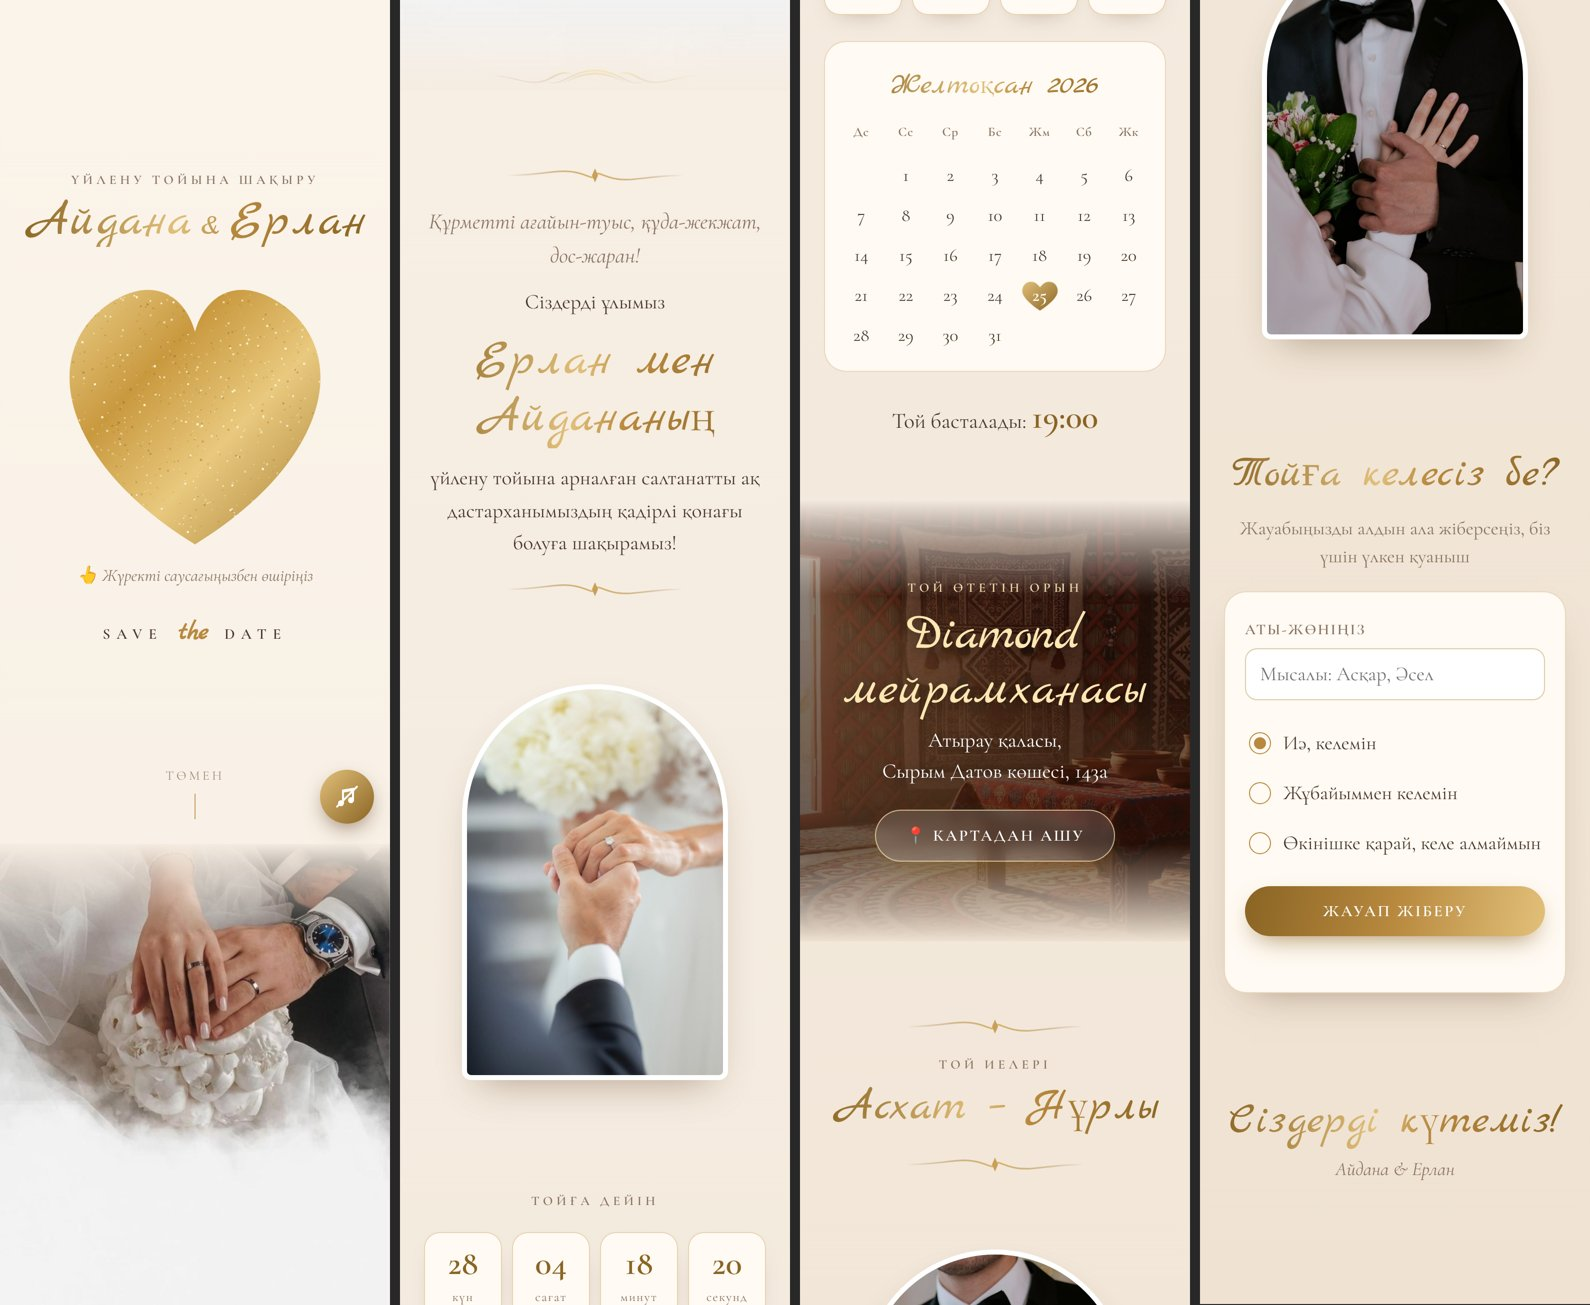
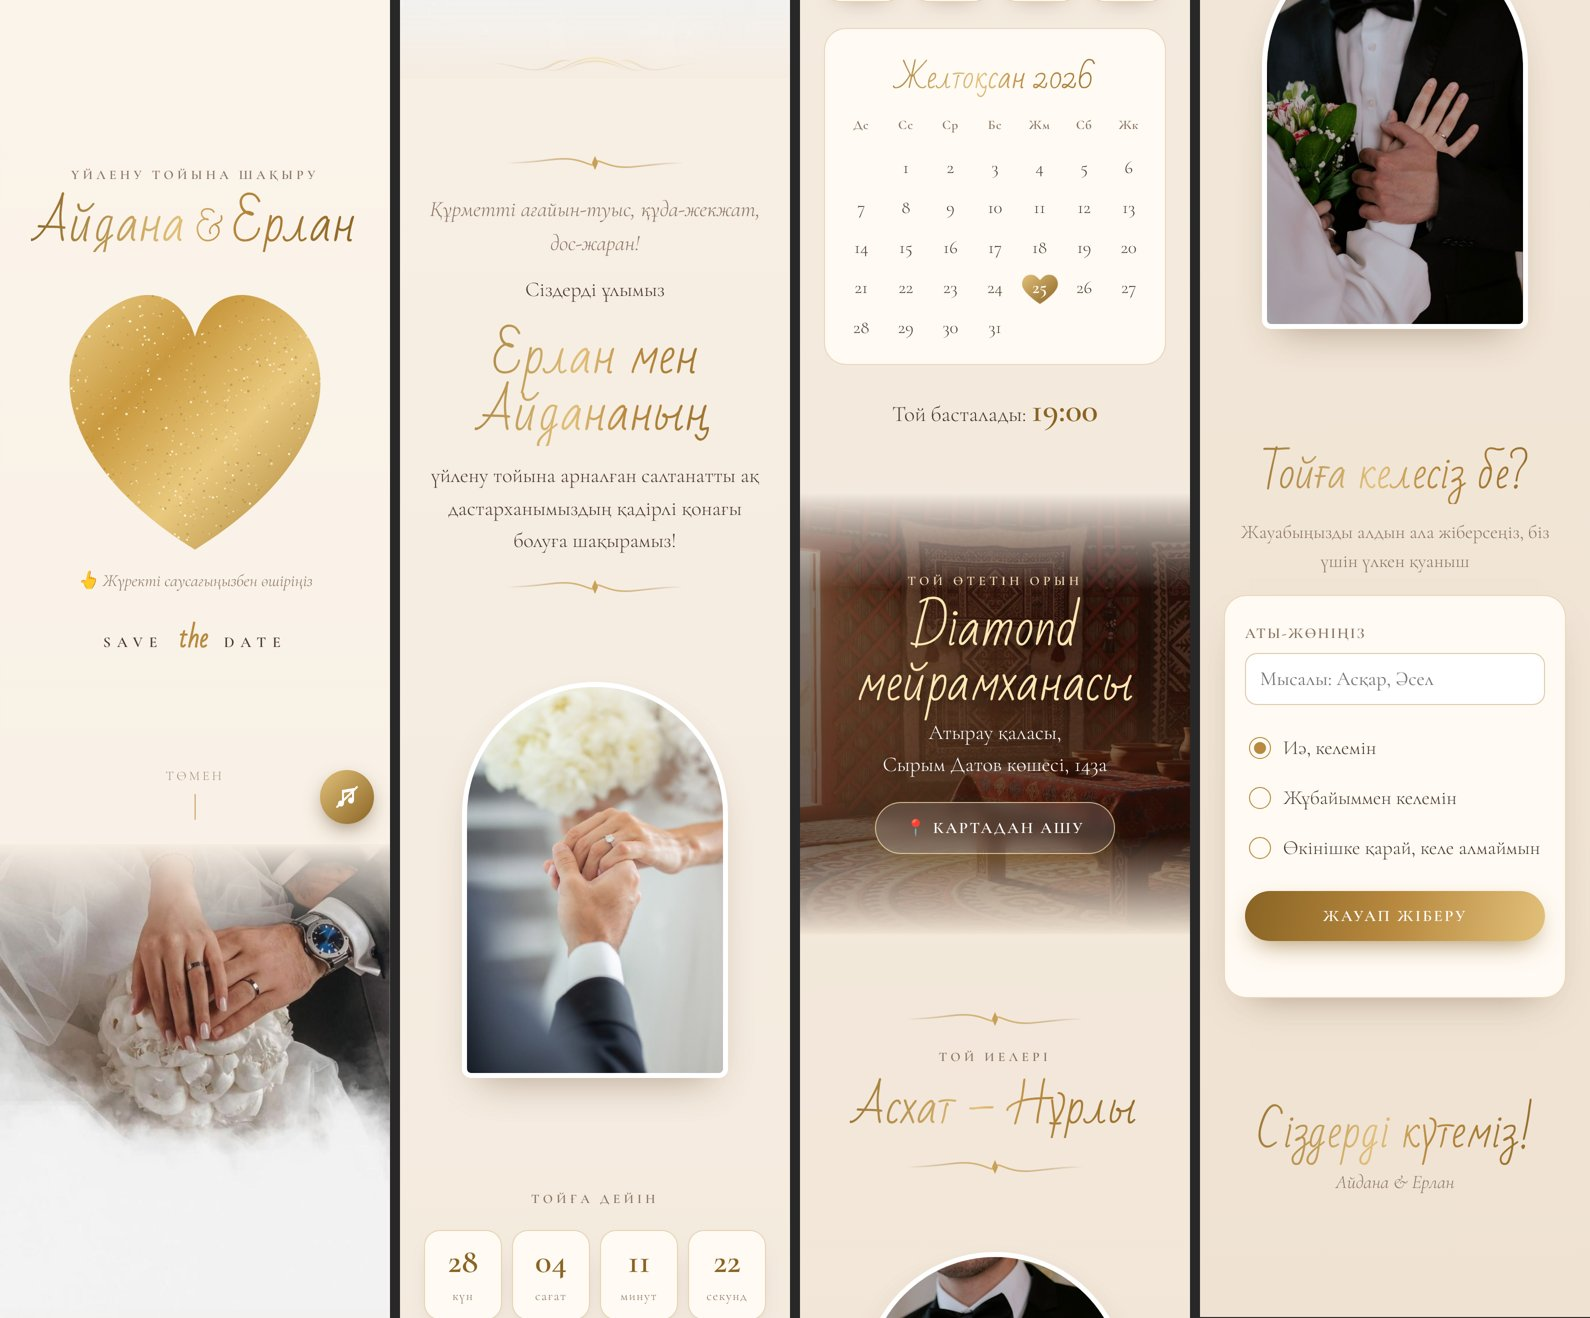
Шақыру сайты: нәзік шрифт
Claude-Session: https://claude.ai/code/session_01DyLs1DAXA4NQtEnuect5En

diff --git a/Сайттар/aidana-erlan/index.html b/Сайттар/aidana-erlan/index.html
@@ -11,7 +11,7 @@
 <meta name="theme-color" content="#f3e9dc">
 <link rel="preconnect" href="https://fonts.googleapis.com">
 <link rel="preconnect" href="https://fonts.gstatic.com" crossorigin>
-<link href="https://fonts.googleapis.com/css2?family=Cormorant+Garamond:ital,wght@0,400;0,500;0,600;1,400&family=Marck+Script&display=swap" rel="stylesheet">
+<link href="https://fonts.googleapis.com/css2?family=Cormorant+Garamond:ital,wght@0,300;0,400;0,500;0,600;1,300;1,400&family=Bad+Script&display=swap" rel="stylesheet">
 <style>
 :root{
   --bg:#f5ece1; --bg2:#efe2d2; --ink:#4a3a2e; --soft:#8a7462;
@@ -19,12 +19,12 @@
 }
 *{box-sizing:border-box;margin:0;padding:0}
 
-body{background:var(--bg);color:var(--ink);font-family:"Cormorant Garamond",Georgia,serif;font-size:19px;line-height:1.5;overflow-x:hidden;-webkit-font-smoothing:antialiased}
+body{background:var(--bg);color:var(--ink);font-family:"Cormorant Garamond",Georgia,serif;font-weight:300;font-size:20px;line-height:1.5;overflow-x:hidden;-webkit-font-smoothing:antialiased}
 .wrap{max-width:480px;margin:0 auto;position:relative;background:linear-gradient(180deg,#fbf4ea 0%,var(--bg) 40%,var(--bg2) 100%);overflow:hidden}
-.script{font-family:"Marck Script","Cormorant Garamond",cursive;font-weight:400}
-.gold{background:linear-gradient(100deg,var(--gold3),var(--gold2) 45%,var(--gold) 60%,var(--gold3));-webkit-background-clip:text;background-clip:text;color:transparent}
+.script{font-family:"Bad Script","Cormorant Garamond",cursive;font-weight:400}
+.gold{padding:.14em .06em .06em;background:linear-gradient(100deg,var(--gold3),var(--gold2) 45%,var(--gold) 60%,var(--gold3));-webkit-background-clip:text;background-clip:text;color:transparent}
 section{position:relative;padding:56px 24px;text-align:center}
-h2{font-family:"Marck Script",cursive;font-weight:400;font-size:44px;line-height:1.1;margin-bottom:14px}
+h2{font-family:"Bad Script",cursive;font-weight:400;font-size:42px;line-height:1.3;margin-bottom:14px}
 .cap{letter-spacing:.28em;text-transform:uppercase;font-size:13px;font-weight:600;color:var(--soft)}
 .divider{display:block;width:180px;height:22px;margin:18px auto}
 .reveal{opacity:0;transform:translateY(26px);transition:opacity 1s ease,transform 1s ease}
@@ -46,7 +46,7 @@ h2{font-family:"Marck Script",cursive;font-weight:400;font-size:44px;line-height
 .hint b{display:inline-block;animation:tap 1.6s infinite}
 @keyframes tap{0%,100%{transform:translateY(0)}50%{transform:translateY(-5px)}}
 .savedate{margin-top:26px;font-size:15px;letter-spacing:.42em;font-weight:600;color:var(--ink)}
-.savedate em{font-family:"Marck Script",cursive;letter-spacing:0;font-size:26px;font-style:normal;color:var(--gold);padding:0 6px;text-transform:none}
+.savedate em{font-family:"Bad Script",cursive;letter-spacing:0;font-size:26px;font-style:normal;color:var(--gold);padding:0 6px;text-transform:none}
 .scroll{position:absolute;bottom:22px;left:50%;transform:translateX(-50%);font-size:13px;letter-spacing:.2em;color:var(--soft);opacity:.8}
 .scroll:after{content:"";display:block;width:1px;height:28px;background:var(--gold);margin:8px auto 0;animation:line 2s infinite}
 @keyframes line{0%{transform:scaleY(0);transform-origin:top}50%{transform:scaleY(1);transform-origin:top}51%{transform-origin:bottom}100%{transform:scaleY(0);transform-origin:bottom}}
@@ -64,7 +64,7 @@ h2{font-family:"Marck Script",cursive;font-weight:400;font-size:44px;line-height
 
 /* шақыру */
 .invite p{font-size:21px;line-height:1.55}
-.invite .lead{font-style:italic;font-size:22px;margin-bottom:14px;color:var(--soft)}
+.invite .lead{font-style:italic;font-weight:300;font-size:22px;margin-bottom:14px;color:var(--soft)}
 .invite .who{font-size:50px;line-height:1.15;margin:14px 0}
 
 /* санақ */
@@ -91,7 +91,7 @@ h2{font-family:"Marck Script",cursive;font-weight:400;font-size:44px;line-height
 .place .bgimg:after{content:"";position:absolute;inset:0;background:linear-gradient(180deg,var(--bg) 0%,rgba(40,20,10,.55) 22%,rgba(40,20,10,.7) 78%,var(--bg2) 100%)}
 .place>*:not(.bgimg){position:relative;z-index:1}
 .place .cap{color:#f3dcb0}
-.place h3{font-family:"Marck Script",cursive;font-weight:400;font-size:50px;line-height:1.1;margin:10px 0 6px;color:#ffe7b3;text-shadow:0 2px 14px rgba(0,0,0,.4)}
+.place h3{font-family:"Bad Script",cursive;font-weight:400;font-size:50px;line-height:1.1;margin:10px 0 6px;color:#ffe7b3;text-shadow:0 2px 14px rgba(0,0,0,.4)}
 .place p{font-size:21px;text-shadow:0 1px 8px rgba(0,0,0,.5)}
 .btn{display:inline-flex;align-items:center;justify-content:center;gap:8px;margin-top:22px;padding:15px 30px;border-radius:40px;border:0;font:600 16px "Cormorant Garamond",serif;letter-spacing:.12em;text-transform:uppercase;text-decoration:none;color:#fff;background:linear-gradient(100deg,var(--gold3),var(--gold) 50%,var(--gold2));box-shadow:0 10px 26px -10px rgba(138,100,36,.8);cursor:pointer}
 .btn.ghost{background:rgba(255,255,255,.14);backdrop-filter:blur(6px);-webkit-backdrop-filter:blur(6px);border:1px solid rgba(255,231,179,.7)}
